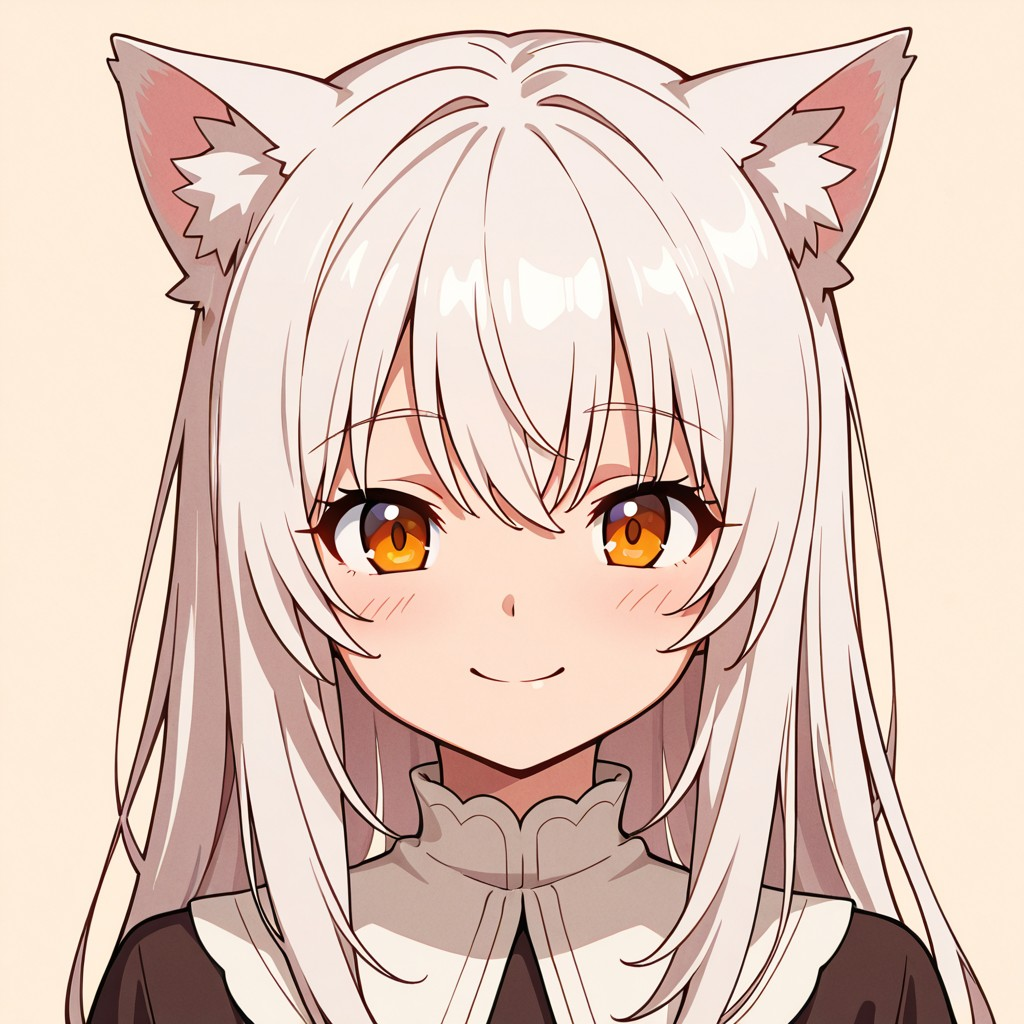
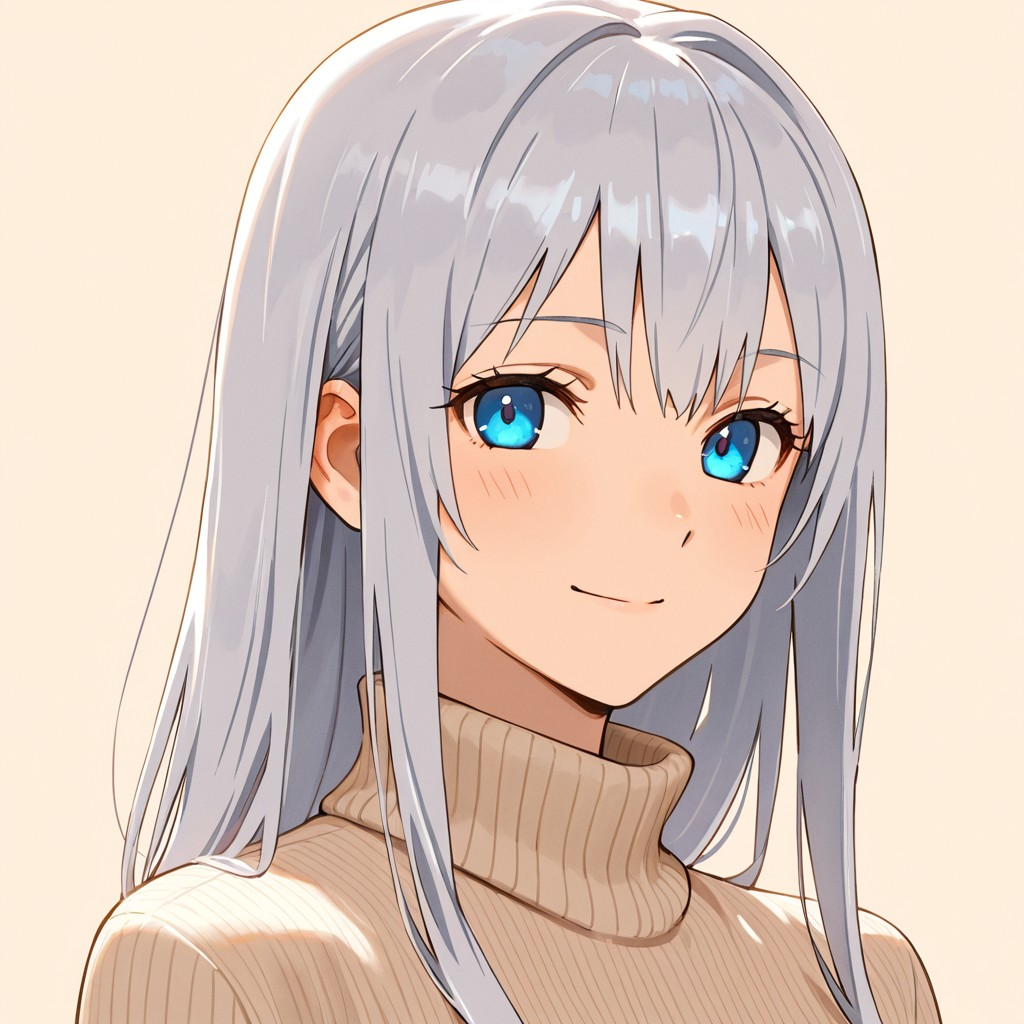
demo: bind characters and regenerate showcase images
scene/closeup/avatar now share the same character sheet so the same character appears across angles.

diff --git a/docs/showcase/README.md b/docs/showcase/README.md
@@ -1,0 +1,28 @@
+# 演示素材（docs/showcase）
+
+> 对话与角色均为**虚构**，仅用于演示扩展的自动配图能力；图片由本地 SDXL 生成（生图后端可替换）。
+
+## 角色绑定（固定角色设定）
+
+为了让 `scene` / `closeup` / `avatar` 里的角色保持一致，演示图使用同一套角色描述：
+
+| 角色 | 固定设定（中文） | 生成用英文 tag |
+|---|---|---|
+| **A（主角）** | 银色长发、蓝色眼睛、米色高领毛衣 | `1girl, silver long hair, blue eyes, beige turtleneck sweater` |
+| **B（同伴）** | 黑色长直发、琥珀色眼睛、白色针织开衫 + 浅蓝背带裙 | `1girl, long black hair, amber eyes, white knit cardigan, light blue overall dress` |
+
+场景固定：街角咖啡馆靠窗木桌、暖色午后光、咖啡杯。
+
+## 文件
+
+| 文件 | 说明 |
+|---|---|
+| `demo-chat.png` | ST 风格对话截图（虚构）：AI 回复后自动出 scene + closeup |
+| `scene.jpg` | 自动生成：两人广角/场景图（A + B） |
+| `closeup.jpg` | 自动生成：主角 A 近景（与 scene 同一角色） |
+| `avatar.jpg` | 自动生成：主角 A 头像（同一角色） |
+
+## 可复现性
+
+- 出图：本地 ComfyUI（SDXL），prompt 里对 A/B 使用同一套角色 tag；
+- 演示只用于 README/截图，不参与扩展运行；换模型/换后端不影响扩展行为。

diff --git a/README.md b/README.md
@@ -69,6 +69,7 @@
 | ![scene](docs/showcase/scene.jpg) | ![closeup](docs/showcase/closeup.jpg) | ![avatar](docs/showcase/avatar.jpg) |
 
 - 本例使用 `dsh-swipe-shots`：每条 AI 回复后自动出 2 张不同角度的图，并隐藏系统图片消息里的提示词文字。
+- **角色绑定**：演示图使用固定角色设定（银发主角 A + 黑发同伴 B），`scene` / `closeup` / `avatar` 保持同一角色，避免跨图人物不一致（详见 [docs/showcase/README.md](docs/showcase/README.md)）。
 - 生图后端**可选**：本地 ComfyUI（SDXL / 其它模型）、云端图片 API、或其它本地服务，见 [docs/IMAGE-BACKENDS.md](docs/IMAGE-BACKENDS.md)。
 
 ## 生图后端（可选 / 可替换）
